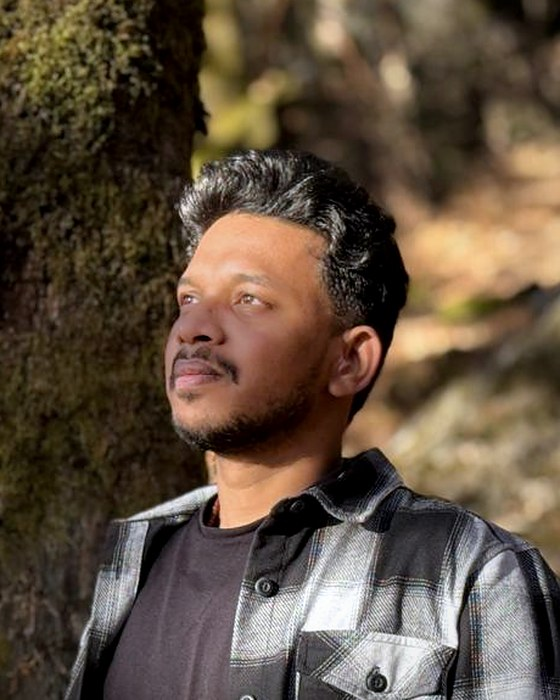
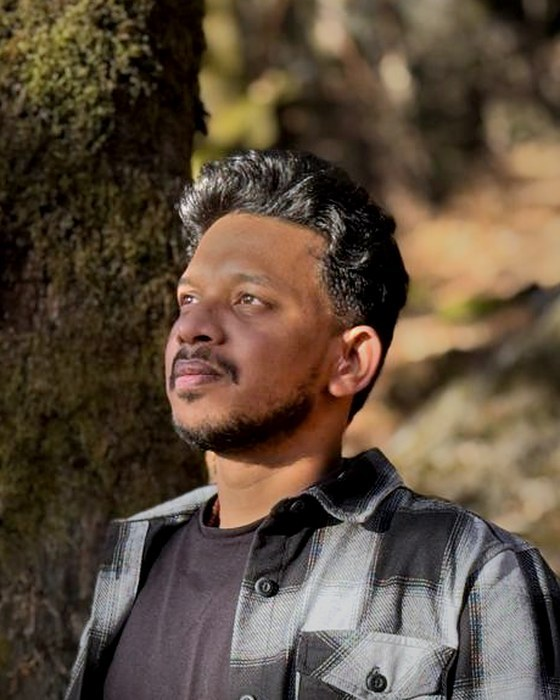
Add files via upload

diff --git a/index.html b/index.html
@@ -462,7 +462,7 @@ td.range b{white-space:nowrap}
     <p class="linkrow"><a href="#projects">Projects</a><span aria-hidden="true">/</span><a href="#writing">Writing</a><span aria-hidden="true">/</span><a href="https://github.com/pawankalyan-gurram">GitHub</a><span aria-hidden="true">/</span><a href="#contact">Email</a></p>
   </div>
   <div class="photo">
-    <picture><source srcset="pawan-kalyan.webp?v=2" type="image/webp"><img src="pawan-kalyan.jpg?v=2" alt="Pawan Kalyan" width="560" height="700" decoding="async" fetchpriority="high"></picture>
+    <picture><source srcset="pawan-kalyan.webp?v=3" type="image/webp"><img src="pawan-kalyan.jpg?v=3" alt="Pawan Kalyan" width="560" height="700" decoding="async" fetchpriority="high"></picture>
   </div>
 </div>
 
